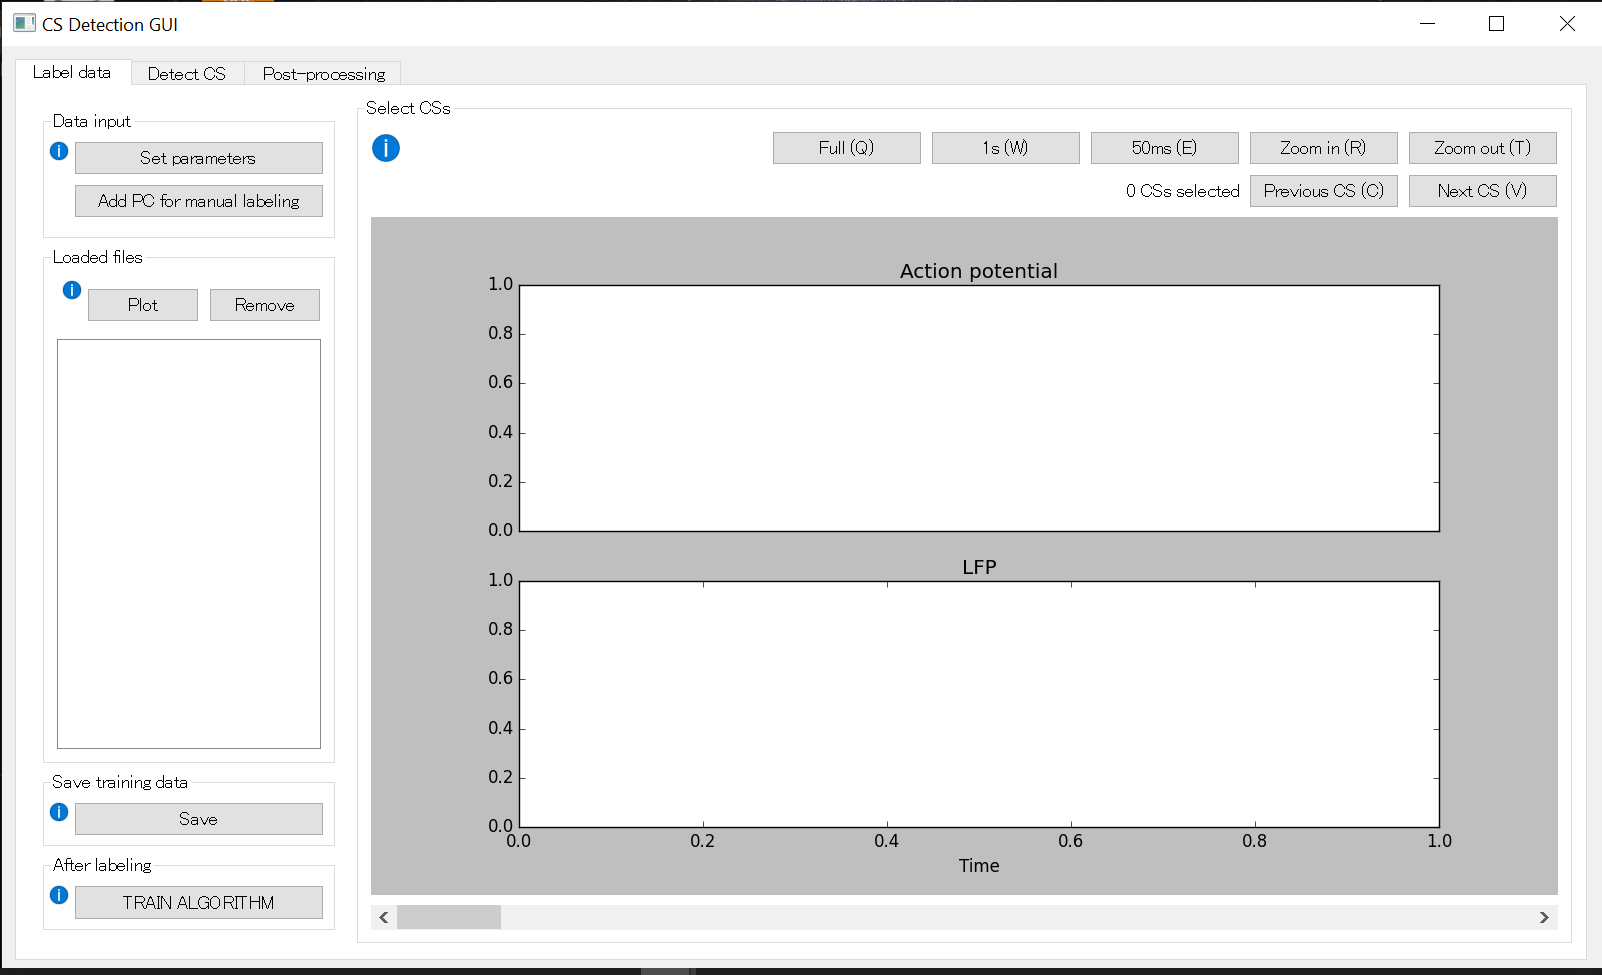
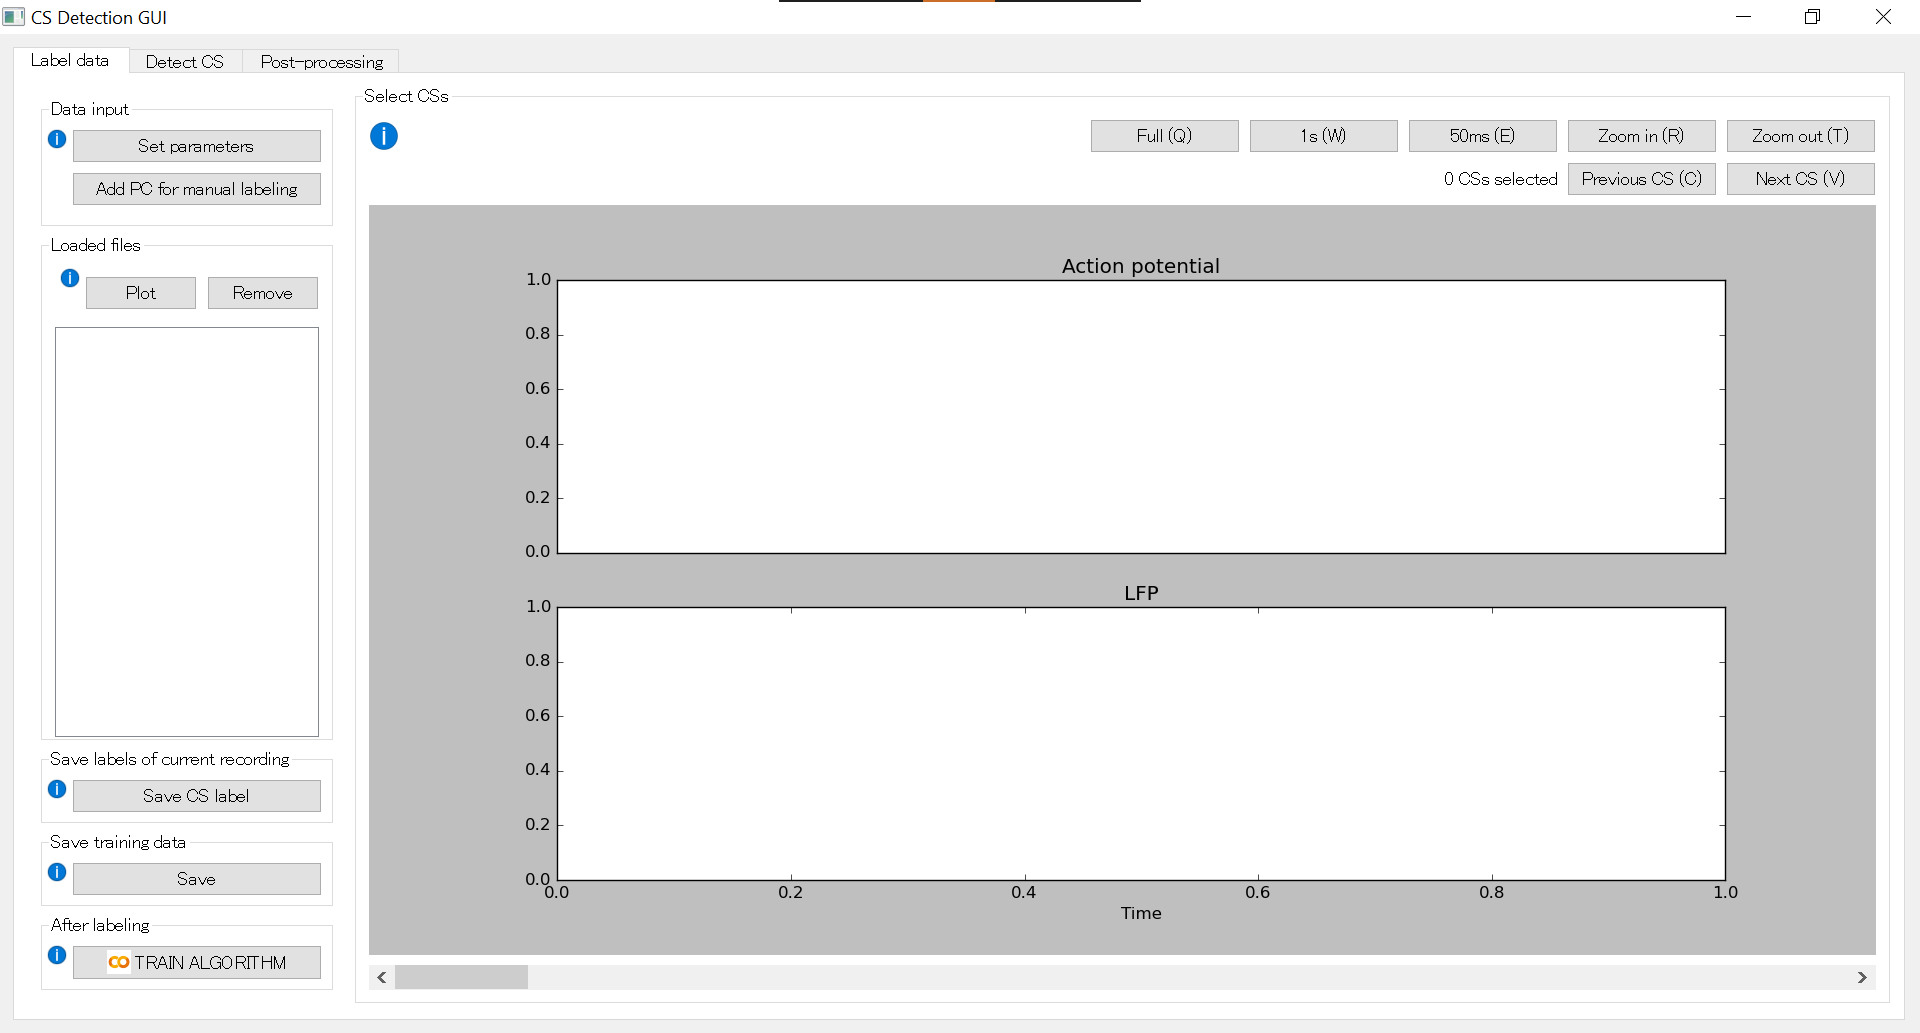
readme step 1

Changed region(s): [[0.0, 0.0, 1.0, 1.0], [0.9363, 0.0, 0.9988, 0.0308]]

diff --git a/gui.py b/gui.py
@@ -403,7 +403,7 @@ class Content(QWidget):
     def create_save_label_box(self):
         save_label_layout = QVBoxLayout()
         
-        save_label_button = QPushButton('Save CS label')
+        save_label_button = QPushButton('Save CS labels')
         save_label_button.clicked.connect(self.saveCurrentFile)
         
         info_label = QLabel()
@@ -455,7 +455,7 @@ class Content(QWidget):
         layout.addRow(QLabel("Sampling rate [Hz]"), self.set_samplingRate())
         layout.addRow(QLabel("Action potential variable name"), self.set_HighVarname())
         layout.addRow(QLabel("LFP variable name"), self.set_LFPVarname())
-        layout.addRow(QLabel("Label variable name"), self.set_LabelVarname())
+        layout.addRow(QLabel("CS label variable name"), self.set_LabelVarname())
         # layout.addRow(QLabel("Max. CSs to select"), self.set_maxCSs())
         layout.addRow(ok_button)
         dialog.setLayout(layout)
@@ -527,6 +527,7 @@ class Content(QWidget):
             self.LFP.pop(idx)
             self.HIGH.pop(idx)
             self.Labels.pop(idx)
+            self.cs_spans_all.pop(idx)
             
             self.canvas.high_axes.cla()
             self.canvas.lfp_axes.cla()
@@ -593,7 +594,6 @@ class Content(QWidget):
     def set_HighVarname(self):
         def changeText():
             self.HIGH_varname = lineedit.text()
-                
         lineedit = QLineEdit(self.HIGH_varname)
         lineedit.textChanged.connect(changeText)
         return lineedit
@@ -639,9 +639,11 @@ class Content(QWidget):
             self.upload_HIGH = np.array(mat[self.HIGH_varname][0])
             if self.Label_varname in mat.keys():
                 self.label = np.array(mat[self.Label_varname][0])
-                print('Label is loaded')                   
+                print('Label is loaded')  
+                print(self.Label_varname)                 
                 self.labels_to_spans()
             else:
+                print('CS labels not available')
                 self.cs_spans = np.array([[]])
             self.interval_inspected = np.zeros_like(self.upload_LFP)
             self.cs_span = np.zeros(2)

diff --git a/README.md b/README.md
@@ -19,29 +19,103 @@ You can download our GUI here
 ### <a name="labeling">STEP1: Labeling your data</a>
 This is how the GUI should look when opening it for the first time:
 ![](./img/Screenshot1.png)
+**0: Data format**
+
+A file to be uploaded should contain the following variables in .mat format.
+- High band-passed action potential: 1 x time
+- low band-passed LFP: 1 x time
+
+    
+- CS labels (optional): 1 x time 
+    
+    1 during CS dischage, 0 otherwise. 
+    
+    If you already have labeled CSs, you can also use them. But this variable is not necessary (you'll label CSs and create this variable in this section).
+
+An example to save variables in MATLAB:
+```Matlab
+YourVariable = struct();
+YourVariable.HIGH = HIGH;
+YourVariable.RAW = RAW;
+YourVariable.Labels = Labels;
+
+save(FileName, '-struct', 'YourVariable');
+```
+
+An example to save variables in Python:
+```python
+import scipy.io as sp
+
+sp.savemat(FileName, 
+    {HIGH: HIGH, LFP: LFP, Labels: Labels,}, 
+    do_compression=True)
+
+# HIGH, LFP, Labels are numpy arrays
+```
 
 **1: Choose parameters**
-The first thing to do when opening the GUI is setting your parameters. To do that, you have to go the "Set parameters" button in the top left corner and choose your recorded sampling rate, as well as entering the action potential and local field potential variable names of your recordings.
+
+The first thing to do when opening the GUI is setting your parameters. Click the ***Set parameters*** button in *Data input* section in the top left corner. You can set the following parameters.
+
+- Sampling rate [Hz]
+- Action potensial variable name
+- LFP variable name
+- CS label variable name
+
+CS label is optional. If you haven't labeled CSs, you can leave this empty.
+
+Although this is not tested and therefore not recommended, in case LFP is missing, you could set the LFP variable name same as action potentian (set both "HIGH", for example). 
 
 **2: Upload files**
-After that, you click on the "Add PC for manual labeling" button and navigate to the folder with your recordings. Select a filee and press "open" to load it. In this window you can also drag your recordings folder to the left area to access it more quickly at a later time. 
-The file that is added first should be plotted instantly after loading, so you can label instantly or load more files and select on which to start. All files will be added to the "loadad files" list on the left, where you can select single files to plot or remove. 
-After uploading and plotting, the GUI should look similar to this:
+
+After that, you click on the ***Add PC for manual labeling*** button below ***Set parameters*** button and navigate to the folder with your recordings. Select a file and press *open* to load it. 
+
+The file that is added should be plotted instantly after loading, so you can label instantly or load more files and select on which to start. All files will be added to the list in the *loaded files* section on the left, where you can select single files to plot or remove. 
+
+After uploading and plotting, the GUI should look like this:
 ![](./img/Screenshot2.png)
 
 **3: Label a recording**
-To label your first recording, you can choose a observed span by clicking on one of the top buttons or using the keyboard shortcuts "Q","W","E" and using "R" and "T" to zoom. Move around the file and find CS by scrolling the bottom bar. 
-Dragging across one of the plots will create a selected span on which the algorithm will train, so it is important to mark the beginning and the end of the complex spike as accurately as possible- You can deselect a CS by simply left-clicking on the selected span.
-If you want to find an already selected CS you can do so by buttons directly above the plot or pressing "C" to move to the previous, or pressing "V" to move to the following CS (regarding time in the recording, not time of selection in the GUI).
-This is an example of a Complex Spike recording:
+
+To label CSs from your recording, you can select a CS by clicking at the onset and dragging till the offset of a CS. Selected span will be colored with red. Select CS spans as accurately as possible in order to create a good training set. You can deselect a CS span by simply clicking on the red span.
+
+We recommend labeling ~10 CSs uniformly througuout  the recording (not only from the first few seconds, for example), so that detection can be robust to the changes of the recording states.
+
+To change the time range of the plot, use the following function buttons (and keyboard short cut):
+- **Full (Q)**: Set the time range full
+- **1s (W)**: Set the time range 1 s
+- **50ms (E)**: Set the time range 50 ms
+- **Zoom in (R)**: Zoom in 
+- **Zoom out (T)**: Zoom out
+
+Also, you can move the time range by using the slider below the plots, or keyboard shortcut **(D)** for going backward and **(F)** for going forward.
+
+If you want to check CSs that you have already selected, use the following function buttons (and keyboard shortcut):
+
+- **Previous CS (C)**: Jump to the previous CS
+- **Next CS (V)**: Jump to the next CS
+
+
+This is an example of a selected CS:
 ![](./img/Screenshot3.png)
 
 After labeling the first recording, select another file in your list and press "plot" to plot the new recording in the GUI and proceed with labling. 
 
-**4: Save Training data**
-When you are heppy with the selected spans, simply press the "save" button in the bottom left corner and choose a filename for your training data. the filetype should stay at .mat.
+**4: Save CSs labels from current plot**
 
-The last step is to press the "Train algorithm" button and move to the training part in your browser.
+This step is not necessary, but if you want to save your CS labels of each recording separately and reuse it for a differnt training set, use **Save CS labels** button in the *Save labels of current plot* section. This will save the following variables in a .mat format, just same as the one that you upload.
+- High band-passed action potential: 1 x time
+- low band-passed LFP: 1 x time    
+- CS labels (optional): 1 x time 
+    
+    1 during CS dischage, 0 otherwise. 
+
+**5: Save training data**
+
+When you finished labeling all the uploaded files, press **Save** button in the *Save training data* section.
+This will not save all the time range, but automatically select only the selected CS spans and some time before and after them from each file to include non-CS spans. This is done to reduce the data size and speed up the training.
+
+The last step is to press the **Train algorithm** button and move to the training part in your browser.
 
 <div style="text-align: right">
 
@@ -50,11 +124,13 @@ The last step is to press the "Train algorithm" button and move to the training 
 
 ### <a name="training"> STEP2: Training the network</a> 
 
-**1: Connecting your drive**  
+**1: Connecting your drive**
+
 You will arrive at a Google colab sheet with 6 steps. Run the first cell (click on the play button) and connect to your google drive by logging in to your google account and letting the colab sheet access your Google Drive.
 
 
-**2: Train your network**    
+**2: Train your network**
+
 The second cell installs the necessary tools on your drive, so just run the cell and wait until all the tools are installed.
 
 After that, you need to run the third cell and upload the file with the training data you saved earlier, it can be found in the "Data" folder by default.
@@ -64,6 +140,7 @@ The fourth cell cell doesnt have to be changed, but it needs to run for the trai
 The fifth cells trains your network and needs no interactions other that running it.
 
 **3: Downloading weights**
+
 After your network is done with training, you can simply download the weights and select your preferred folder to save them in. This is the last step in your browser. You can return to the GUI after completing it.
 
 <div style="text-align: right">
@@ -74,6 +151,7 @@ After your network is done with training, you can simply download the weights an
 ### <a name="detecting">STEP3: Detecting complex spikes</a>
 
 **1: Uploading files**  
+
 After opening the GUI again, navigate to the "Detect CS" tab at the top. 
 Choose if you want to detect on one or multiple files. Press the upper two buttons to upload a recording on which the algorithm will detect and to upload the weights you just saved from the Colab sheet in your browser. If you chose to detect on multiple files, you will need to specify an output folder as well.
 This is the detection tab of the GUI when re-entering:
@@ -81,6 +159,7 @@ This is the detection tab of the GUI when re-entering:
 
 
 **2: Detecting CS**
+
 By clicking the "Detect CS" button and pressing "ok" in the dialog the detection will start. The results of the algorithm will be saved in a file with the selected file name in the beginning and "output" in the end, so the name of the resulting file ist "yourfilename_output.mat.
 
 You can move to the post-processing tab after running the algortihm to see your result and save clusters.
@@ -92,19 +171,32 @@ You can move to the post-processing tab after running the algortihm to see your 
 
 ### <a name="post-processing">STEP4: Post-processing</a>
 
-**1: Uploading files**  
+**1: Uploading files** 
+
 Again, you first need to upload some files. This time, the loaded files have to be your recording from the last tab and the corresponding output file, so you should upload your file "filename.mat" as the upper file and your file "filename_output.mat" as the lower file.
 The names are shown after selection, so you can check and reupload anytime.
 
 **2: Plotting data**
+
 press the "Setting for plot" button in the big plotting window to change parameters (like simple spike variable name or sampling rate) to your personally used values. These can be changed and adjusted after plotting. 
 Press "Plot data" to see the CS clusters the algorithm detected on your file.
 This is an example of how it should look after plotting your files:
 ![](./img/Screenshot5.png)
 
 **3: Selecting clusters and saving**
+
 In the select clusters box the individual clusters can be selected to plot individually and outliers or noisy data can be deselected to remove from the results. The "update" button replots only the selected clusters.
 Lastly, the "Save selected cluster data" lets you save the selected clusters as a matlab file. Additional information to any button can be found in tooltips by hovering the information button in every box.
 
+<div style="text-align: right">
+
+[back to top](#top)
+</div>
+
 ### <a name="trouble-shooting">Trouble shooting</a>
 In case the app crashes, you can run from a command prompt (on Windows) and see what kind of error is prompted.
+
+<div style="text-align: right">
+
+[back to top](#top)
+</div>
